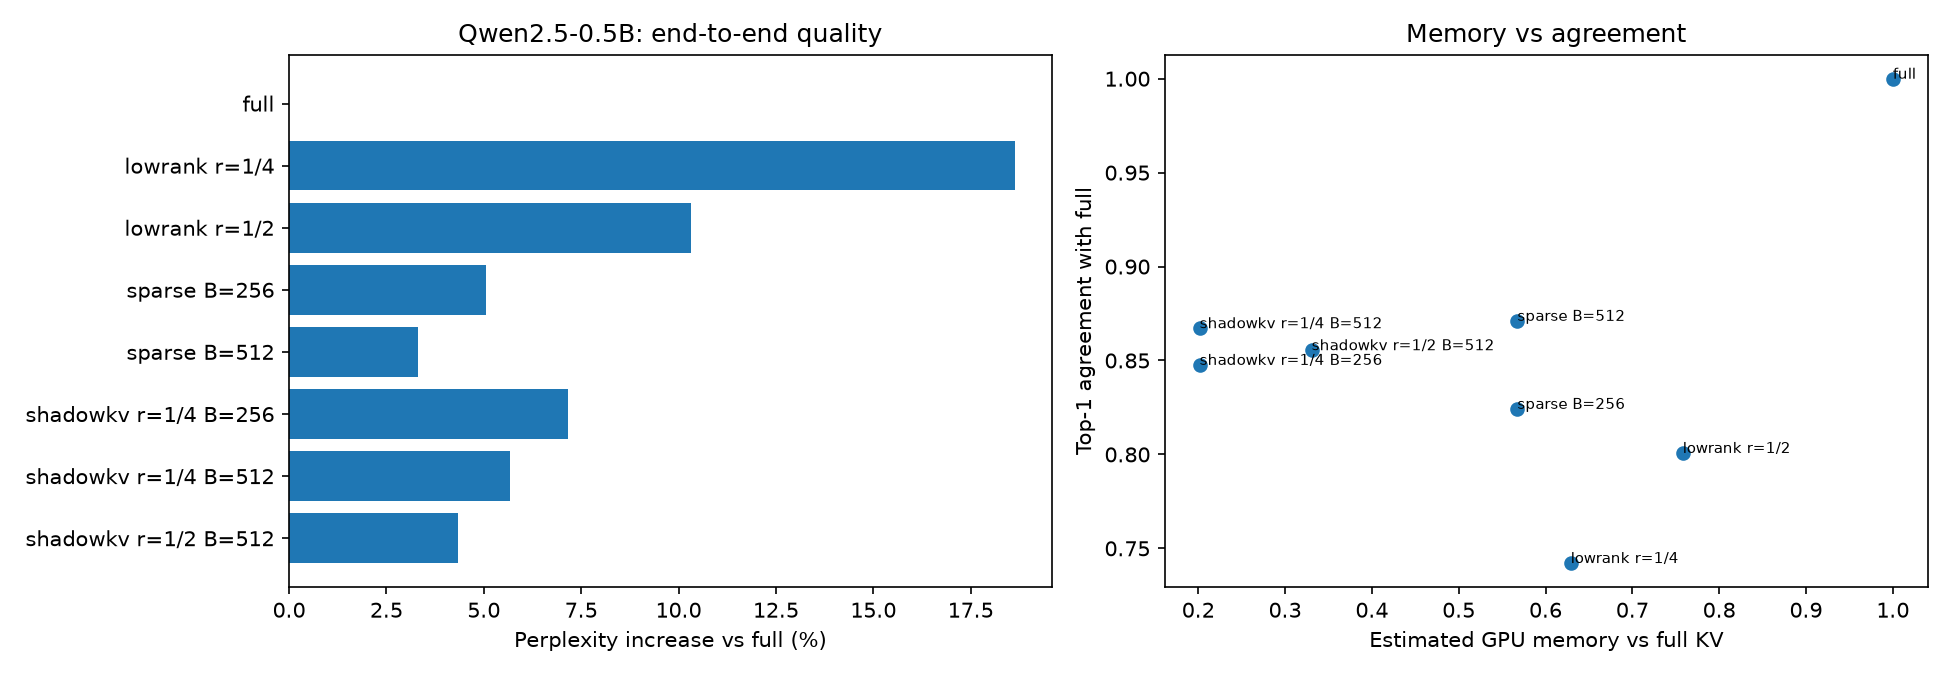
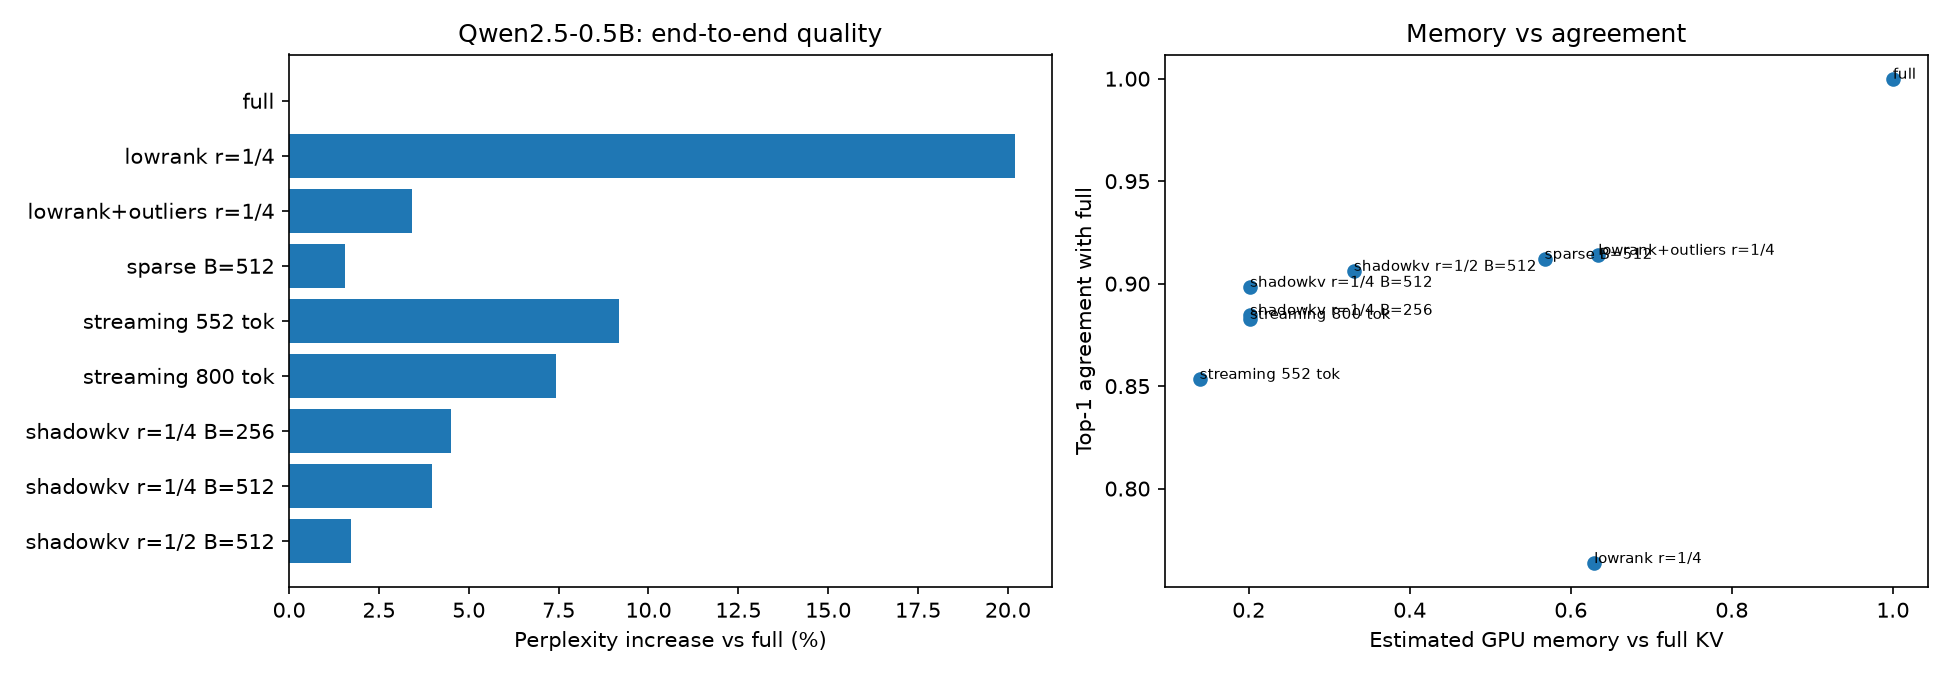
Phase 13: StreamingLLM baseline and outlier ablation on Qwen

diff --git a/experiments/end_to_end.py b/experiments/end_to_end.py
@@ -1,3 +1,8 @@
+# Phase 13-14: end-to-end ShadowKV, baselines, and ablation
+# Prefill P tokens exactly, then predict the next G tokens one at a time (teacher forcing)
+# with each method, and compare against the full KV cache.
+# Usage: python experiments\end_to_end.py [model_name]
+
 import copy
 import json
 import platform
@@ -18,17 +23,18 @@ ROOT = Path(__file__).resolve().parents[1]
 sys.path.insert(0, str(ROOT))
 from models.hf_wrapper import STATE, setup_rope, build_layer_structs
 
-MODEL = sys.argv[1] if len(sys.argv) > 1 else "TinyLlama/TinyLlama_v1.1"
+MODEL = sys.argv[1] if len(sys.argv) > 1 else "Qwen/Qwen2.5-0.5B"
 TAG = MODEL.split("/")[-1]
 P = 3968   # prefill length, divisible by chunk size
 G = 128    # decode steps
-N_PROMPTS = 2
+N_PROMPTS = 4
 CONFIGS = [
     {"name": "full", "mode": "full"},
     {"name": "lowrank r=1/4", "mode": "lowrank", "rank_frac": 0.25},
-    {"name": "lowrank r=1/2", "mode": "lowrank", "rank_frac": 0.5},
-    {"name": "sparse B=256", "mode": "sparse", "budget": 256},
+    {"name": "lowrank+outliers r=1/4", "mode": "lowrank_outliers", "rank_frac": 0.25},
     {"name": "sparse B=512", "mode": "sparse", "budget": 512},
+    {"name": "streaming 552 tok", "mode": "streaming", "stream_tokens": 552},
+    {"name": "streaming 800 tok", "mode": "streaming", "stream_tokens": 800},
     {"name": "shadowkv r=1/4 B=256", "mode": "shadowkv", "rank_frac": 0.25, "budget": 256},
     {"name": "shadowkv r=1/4 B=512", "mode": "shadowkv", "rank_frac": 0.25, "budget": 512},
     {"name": "shadowkv r=1/2 B=512", "mode": "shadowkv", "rank_frac": 0.5, "budget": 512},
@@ -66,6 +72,23 @@ def cache_keys(cache, i):
     return cache[i][0][0]
 
 
+def gpu_mem_estimate(mode, r):
+    """Estimated GPU memory vs a full KV cache (1.0 = full)."""
+    c = STATE.chunk
+    n_out_tok = round(STATE.outlier_frac * P / c) * c
+    if mode == "full":
+        return 1.0
+    if mode == "lowrank":
+        return (P * r + r * D + P * D) / (2 * P * D)
+    if mode == "lowrank_outliers":
+        return (P * r + r * D + n_out_tok * D + P * D) / (2 * P * D)
+    if mode == "sparse":
+        return (P * D + (P // c) * D + n_out_tok * D) / (2 * P * D)
+    if mode == "streaming":
+        return STATE.stream_tokens / P
+    return (P * r + r * D + (P // c) * D + 2 * n_out_tok * D) / (2 * P * D)
+
+
 # Sanity check: our attention in full mode must match the model's own attention
 with torch.no_grad():
     probe = prompts[0][:256][None]
@@ -93,6 +116,7 @@ for p_i, seq in enumerate(prompts):
         STATE.mode = c["mode"]
         STATE.rank = int(D * c.get("rank_frac", 1.0))
         STATE.budget = c.get("budget", 0)
+        STATE.stream_tokens = c.get("stream_tokens", 0)
         if c["mode"] != "full":
             build_layer_structs(keys, P)
 
@@ -113,22 +137,13 @@ for p_i, seq in enumerate(prompts):
         kl = (full_lp.exp() * (full_lp - lp)).sum(-1).mean().item()
         agree = (lp.argmax(-1) == full_lp.argmax(-1)).float().mean().item()
 
-        r = STATE.rank
-        n_out_tok = round(STATE.outlier_frac * P / STATE.chunk) * STATE.chunk
-        if c["mode"] == "full":
-            gpu = 1.0
-        elif c["mode"] == "lowrank":
-            gpu = (P * r + r * D + P * D) / (2 * P * D)
-        elif c["mode"] == "sparse":
-            gpu = (P * D + (P // STATE.chunk) * D + n_out_tok * D) / (2 * P * D)
-        else:
-            gpu = (P * r + r * D + (P // STATE.chunk) * D + 2 * n_out_tok * D) / (2 * P * D)
-
         rows.append({"prompt": p_i, "config": c["name"], "mode": c["mode"],
-                     "rank": r if c["mode"] in ("lowrank", "shadowkv") else D,
-                     "budget": STATE.budget, "nll": nll, "ppl": float(torch.exp(torch.tensor(nll))),
-                     "kl": kl, "top1_agree": agree, "gpu_mem": gpu, "decode_s": secs})
-        print(f"prompt {p_i} | {c['name']:<22} | ppl {rows[-1]['ppl']:7.3f} | "
+                     "rank": STATE.rank, "budget": STATE.budget,
+                     "stream_tokens": STATE.stream_tokens, "nll": nll,
+                     "ppl": float(torch.exp(torch.tensor(nll))), "kl": kl,
+                     "top1_agree": agree, "gpu_mem": gpu_mem_estimate(c["mode"], STATE.rank),
+                     "decode_s": secs})
+        print(f"prompt {p_i} | {c['name']:<24} | ppl {rows[-1]['ppl']:7.3f} | "
               f"agree {agree:.3f} | KL {kl:.4f}")
 
 df = pd.DataFrame(rows)
@@ -137,7 +152,7 @@ df = pd.DataFrame(rows)
 df.to_csv(ROOT / f"results/csv/end_to_end_{TAG}.csv", index=False)
 with open(ROOT / f"results/json/end_to_end_env_{TAG}.json", "w") as f:
     json.dump({"model": MODEL, "prefill": P, "decode_steps": G, "n_prompts": N_PROMPTS,
-               "chunk": STATE.chunk, "outlier_frac": STATE.outlier_frac,
+               "chunk": STATE.chunk, "outlier_frac": STATE.outlier_frac, "sink": STATE.sink,
                "sanity_max_logit_diff": check, "python": platform.python_version(),
                "torch": torch.__version__, "transformers": transformers.__version__,
                "dtype": "float32"}, f, indent=2)
@@ -145,11 +160,11 @@ with open(ROOT / f"results/json/end_to_end_env_{TAG}.json", "w") as f:
 # Summary (average over prompts; perplexity from mean NLL)
 order = [c["name"] for c in CONFIGS]
 s = df.groupby("config")[["nll", "kl", "top1_agree", "gpu_mem"]].mean().reindex(order)
+s["agree_std"] = df.groupby("config")["top1_agree"].std().reindex(order)
 s["ppl"] = s["nll"].apply(lambda x: float(torch.exp(torch.tensor(x))))
-full_ppl = s.loc["full", "ppl"]
-s["ppl_increase_%"] = (s["ppl"] / full_ppl - 1) * 100
+s["ppl_increase_%"] = (s["ppl"] / s.loc["full", "ppl"] - 1) * 100
 print(f"\nModel: {MODEL}   prefill {P}   decode {G} tokens x {N_PROMPTS} prompts")
-print(s[["gpu_mem", "ppl", "ppl_increase_%", "top1_agree", "kl"]].round(3).to_string())
+print(s[["gpu_mem", "ppl", "ppl_increase_%", "top1_agree", "agree_std", "kl"]].round(3).to_string())
 
 # Plot
 fig, axes = plt.subplots(1, 2, figsize=(13, 4.5))

diff --git a/models/hf_wrapper.py b/models/hf_wrapper.py
@@ -1,3 +1,14 @@
+# ShadowKV inside a Hugging Face model.
+# Registers a custom attention function. Prefill always uses exact causal attention.
+# During decode, the prefill context is handled according to STATE.mode:
+#   full              exact attention over everything
+#   lowrank           all context keys rebuilt from low-rank pre-RoPE keys
+#   lowrank_outliers  low-rank keys, but outlier chunks keep exact keys
+#   sparse            landmark + outlier chunk selection, exact keys
+#   shadowkv          selection + rebuild only selected keys, exact outlier keys
+#   streaming         first `sink` tokens + most recent context tokens, exact (StreamingLLM style)
+# Tokens added after prefill (the recent window) are always exact.
+
 import math
 from dataclasses import dataclass, field
 
@@ -19,6 +30,8 @@ class ShadowState:
     budget: int = 256
     chunk: int = 8
     outlier_frac: float = 0.01
+    sink: int = 4
+    stream_tokens: int = 0
     layers: dict = field(default_factory=dict)
     rope_cos: torch.Tensor = None
     rope_sin: torch.Tensor = None
@@ -79,11 +92,21 @@ def shadowkv_attention(module, query, key, value, attention_mask=None,
     k_recent, v_recent = k_all[:, P:], v_all[:, P:]
     kv = torch.arange(Hkv)[:, None, None]
 
-    if STATE.mode == "lowrank":
+    if STATE.mode in ("lowrank", "lowrank_outliers"):
         if "k_rec_all" not in L:
             k_rec = L["lr"].reconstruct().reshape(P, Hkv, d).transpose(0, 1)
             L["k_rec_all"] = apply_rope(k_rec, STATE.rope_cos[:P], STATE.rope_sin[:P]).to(q.dtype)
-        k_sel, v_sel = L["k_rec_all"][:, None], v_ctx[:, None]   # [kv_heads, 1, P, d]
+        k_use = L["k_rec_all"]
+        if STATE.mode == "lowrank_outliers":
+            tok_out = L["out_mask"].repeat_interleave(STATE.chunk, -1)   # [kv_heads, P]
+            k_use = torch.where(tok_out[..., None], k_ctx, k_use)
+        k_sel, v_sel = k_use[:, None], v_ctx[:, None]                   # [kv_heads, 1, P, d]
+
+    elif STATE.mode == "streaming":
+        n = STATE.stream_tokens
+        idx = torch.cat([torch.arange(STATE.sink), torch.arange(P - (n - STATE.sink), P)])
+        k_sel, v_sel = k_ctx[:, idx][:, None], v_ctx[:, idx][:, None]
+
     else:
         c = STATE.chunk
         out_mask = L["out_mask"]
